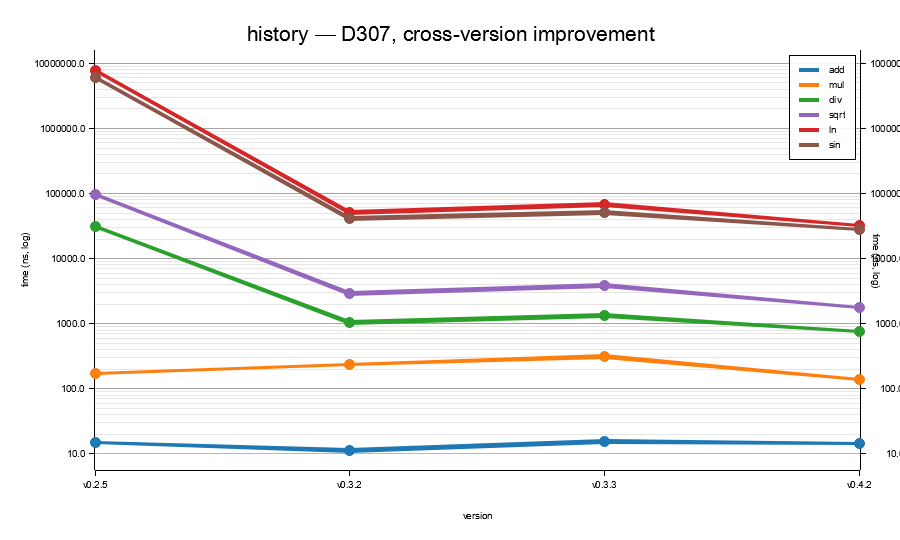
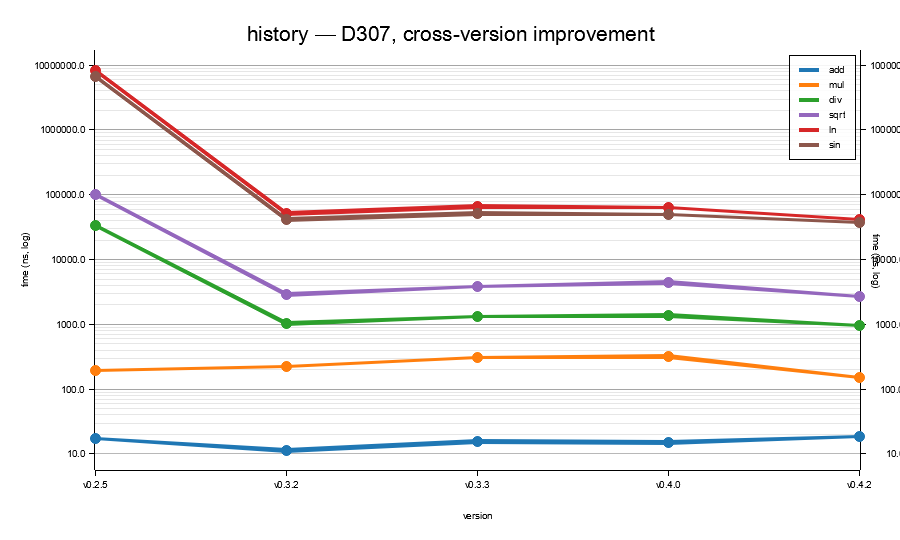
release: 0.4.2 — Tang ln ladder + perf wave-1..4 + benchmarks refresh

diff --git a/examples/chart_gen.rs b/examples/chart_gen.rs
@@ -341,19 +341,20 @@ fn render_per_width_summary(
 //   bench-history-<tag>/<group>/<width>/new/estimates.json
 //
 // where:
-//   <tag>   ∈ { v0.2.5, v0.3.2, v0.3.3, HEAD }
+//   <tag>   ∈ { v0.2.5, v0.3.2, v0.3.3, v0.4.0, HEAD }
 //   <group> ∈ { arith_add, arith_mul, arith_div,
 //               sqrt_strict, ln_strict, sin_strict }
 //   <width> ∈ { D38, D76, D307 }
 //
-// We label the HEAD tag as v0.4.0 in the rendered chart per the
-// brief — the bench was run against the v0.4.0 source.
+// We label the HEAD tag as v0.4.2 in the rendered chart — the bench
+// was run against the v0.4.2 source.
 // ------------------------------------------------------------------
 
 const HISTORY_VERSIONS: &[(&str, &str)] = &[
     ("v0.2.5", "v0.2.5"),
     ("v0.3.2", "v0.3.2"),
     ("v0.3.3", "v0.3.3"),
+    ("v0.4.0", "v0.4.0"),
     ("HEAD",   "v0.4.2"),
 ];
 

diff --git a/docs/benchmarks.md b/docs/benchmarks.md
@@ -1024,15 +1024,15 @@ and is driven by
 [`bench-history.yml`](https://github.com/mootable/decimal-scaled/blob/main/.github/workflows/bench-history.yml);
 each charted version is `cargo add`ed into a stub crate and
 benched with the same Criterion settings. v0.3.0 / v0.3.1 /
-v0.4.0 / v0.4.1 are omitted; widths and functions are
-deliberately minimal per the bench-history scope note. The
-charted endpoint labelled v0.4.2 is the current HEAD —
-v0.4.0 / v0.4.1 are not on crates.io as separate
-bench-history rows because each was a transient release in
-the 0.4 cycle; v0.4.2 is the first 0.4 release shape that
-moves the needle vs the v0.3.x baseline (Tang `ln` lookup
+v0.4.1 are omitted; widths and functions are deliberately
+minimal per the bench-history scope note. v0.4.1 is skipped
+because it was a cosmetic-only release with no perf delta vs
+v0.4.0. The charted endpoint labelled v0.4.2 is the current
+HEAD and isolates the v0.4.2-cycle work (Tang `ln` lookup
 ladder, narrow-GUARD trig family, reciprocal-divide
-hyperbolic identity).
+hyperbolic identity, MG-chain bit-exact half-to-even) from
+the v0.4.0 baseline that shipped the wide-tier kernel
+refactor without the lookup ladder.
 
 ![history at D38](figures/history/d38.png)
 